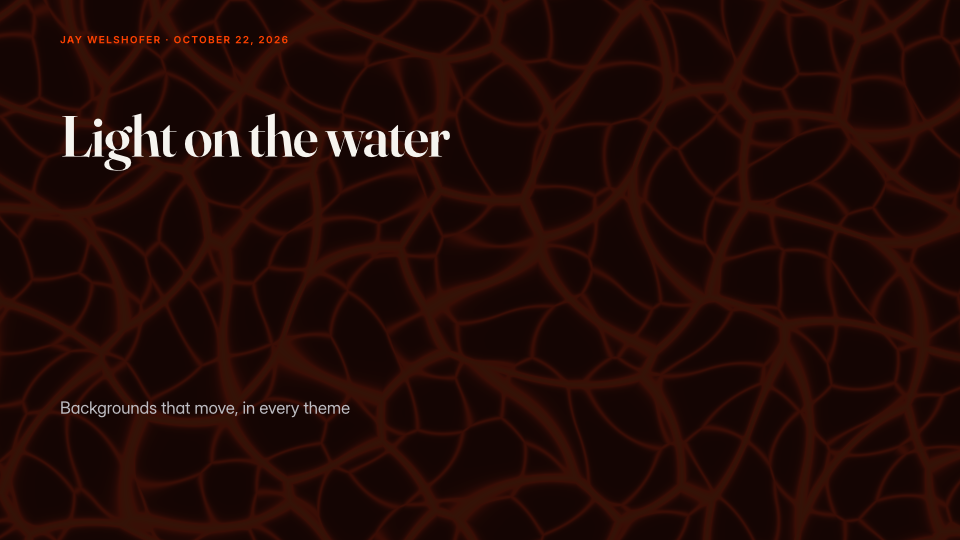
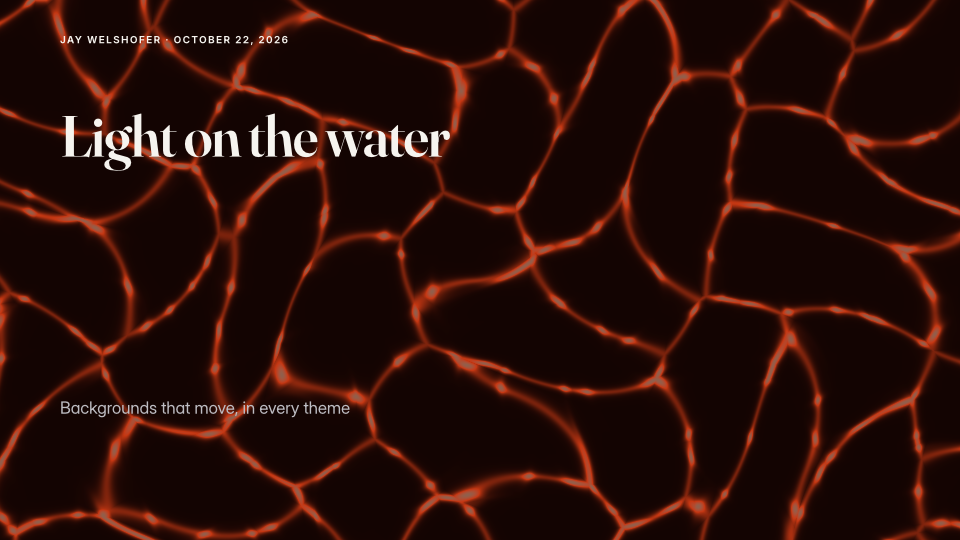
Contact sheet, second round: brighter backgrounds, caustic filaments, sweep beyond the corner (PLAN 2.147)
Claude-Session: https://claude.ai/code/session_015mJLVXZfdbUWAHtUhAPLNA

Changed region(s): [[0.0, 0.0, 1.0, 1.0], [0.4062, 0.0, 0.4375, 0.0593], [0.5625, 0.9778, 0.5938, 1.0]]

diff --git a/shots/backgrounds-a/README.md b/shots/backgrounds-a/README.md
@@ -11,4 +11,6 @@ Each shipped theme's seven background presets, full bleed behind the theme's own
 
 Rows: `backdrop` (mesh) and `texture` (noise), as they shipped; then the new `aurora` (mesh), `lagoon` (caustics), `sweep` (conic gradient), `haze` (noise), and `dust` (particles). `*-lagoon-t*.png` are the caustics frames at full 960 × 540; `torture-caustics.png` is torture case 70's golden.
 
-Contrast, `scaena lint` on each theme's Title and Section slides over each preset: every new preset passes E110/E111 in all four themes. `backdrop` and `texture` fail under the accent kicker on Dusk, Daybreak, and Ember, as they did before this change.
+Second round (after the parent's review): backgrounds capped by the theme's ink, which title and body text are set in, not by the accent kicker; lagoon as thin, uneven filaments brightest where its two layers cross; sweep's center beyond the top-left corner. Each slide is drawn as lint's own contrast fixes leave it: a kicker in the accent or a lede in the muted color may now be set in the ink over a background, as lane B's background choice will set it.
+
+Contrast, `scaena lint` on each theme's Title and Section slides over each preset: no title or body text needs a fix, and after lint's fixes every preset in every theme has no E110 or E111.
